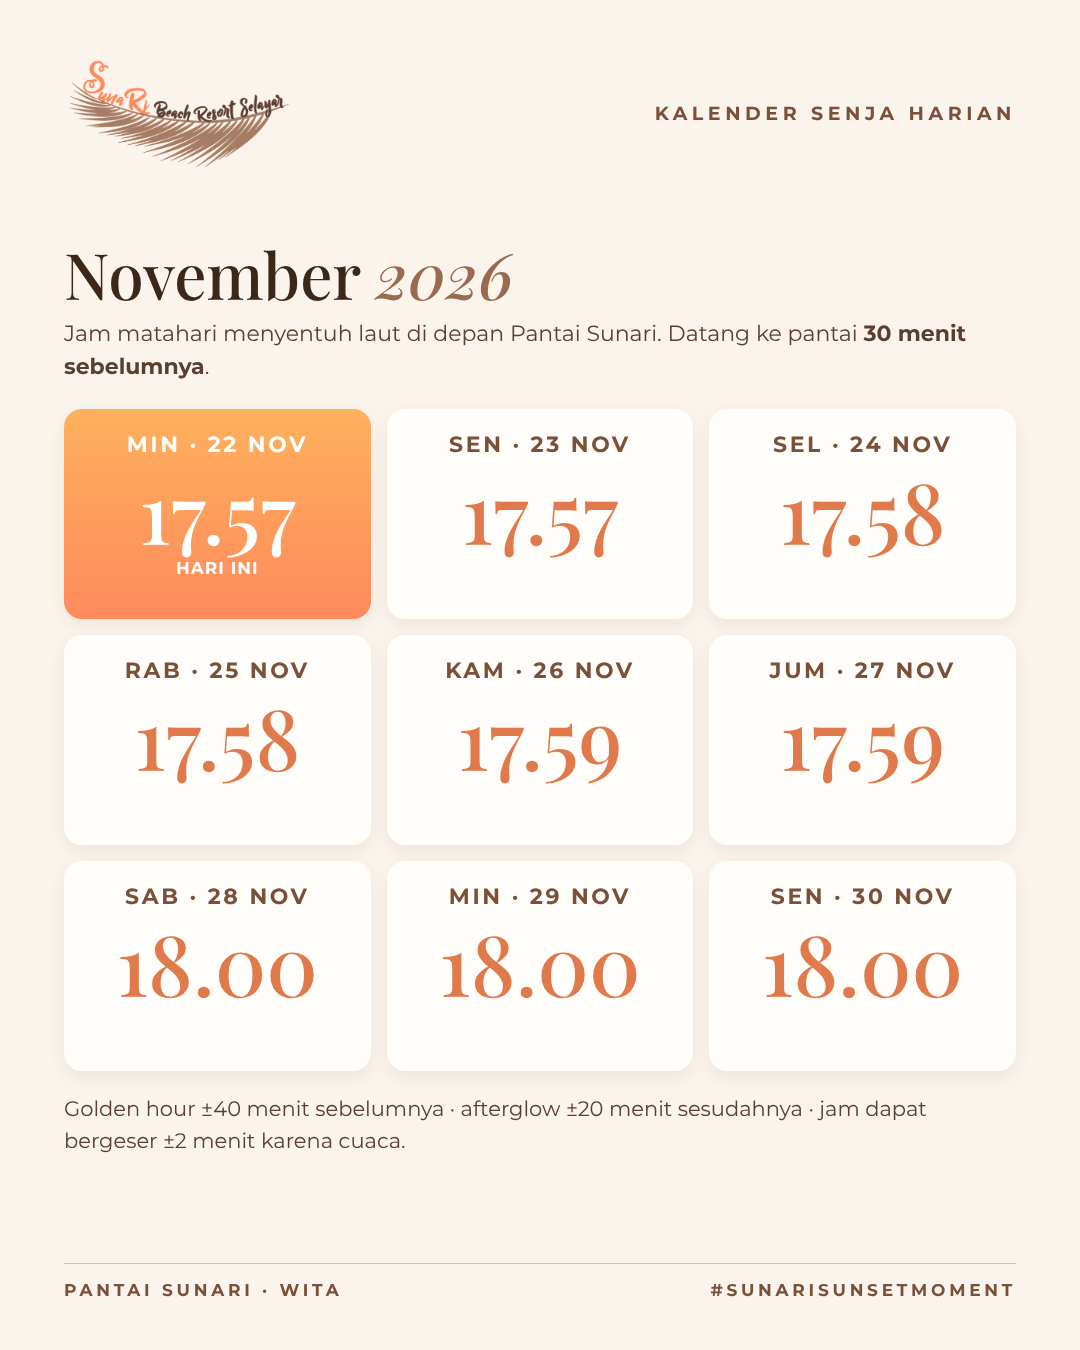
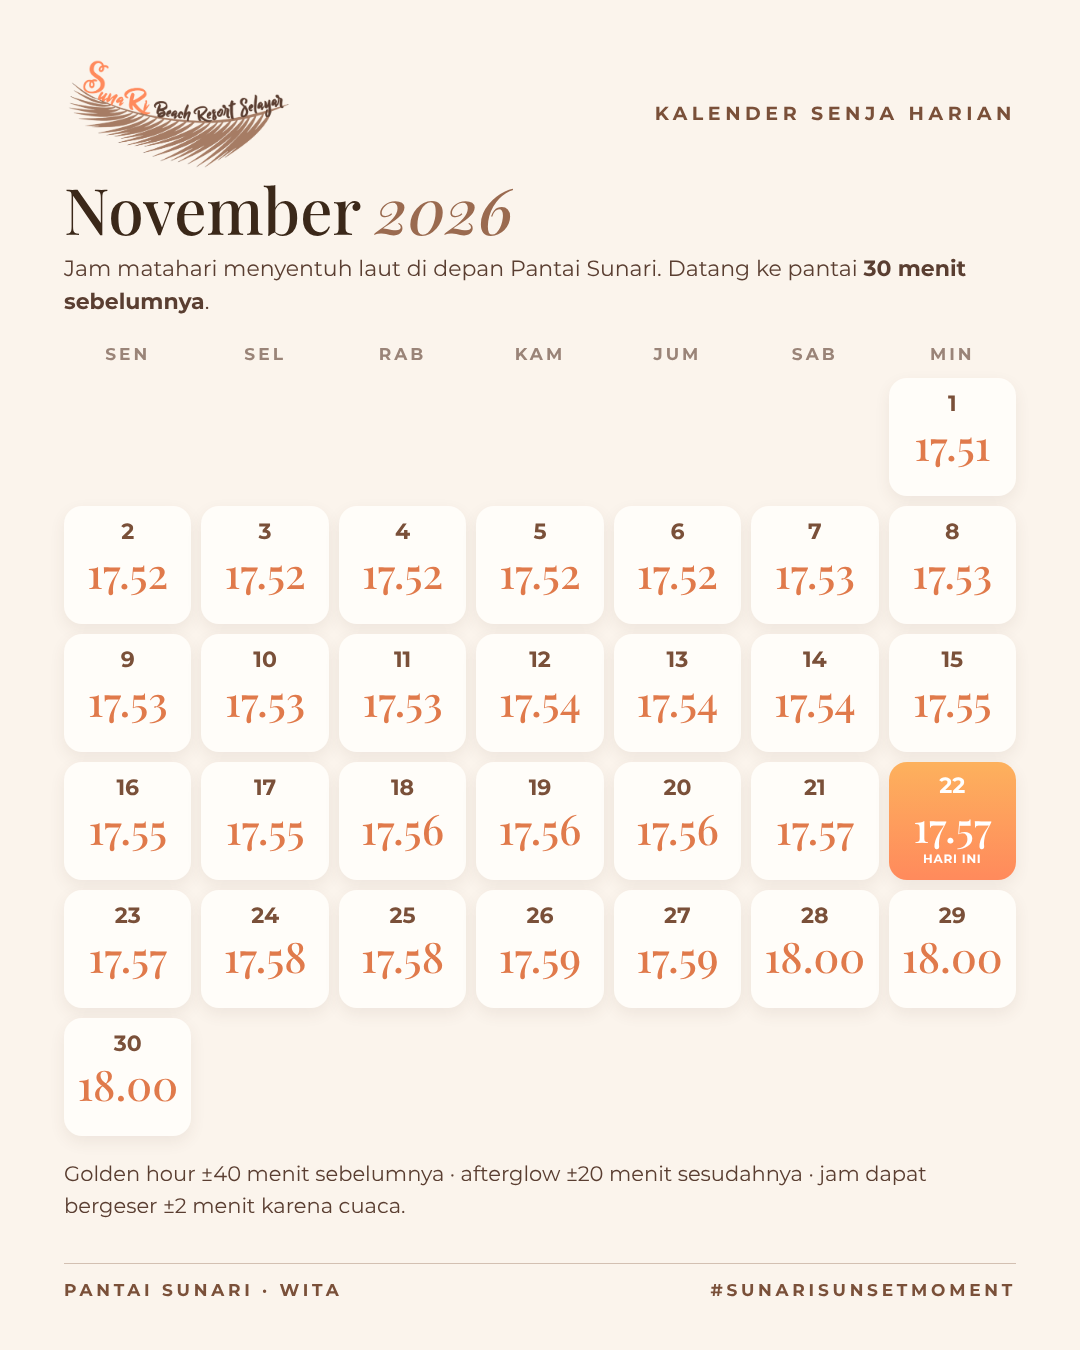
Daily sunset calendar: full month of November
Claude-Session: https://claude.ai/code/session_01AizaiBQtsTmWERPRfEgVV4

diff --git a/social/kalender_harian.html b/social/kalender_harian.html
@@ -24,7 +24,7 @@ body{background:#bbb;font-family:Montserrat,sans-serif;color:#3B2819}
   <div style="position:absolute;left:64px;right:64px;top:166px;bottom:120px;display:flex;flex-direction:column;justify-content:center">
     <div class="pf" style="font-size:64px;line-height:1.05">November <span class="it">2026</span></div>
     <div class="note" style="margin-top:10px">Jam matahari menyentuh laut di depan Pantai Sunari. Datang ke pantai <b>30 menit sebelumnya</b>.</div>
-    <div style="margin-top:26px"><div style="display:grid;grid-template-columns:repeat(3,1fr);gap:16px"><div class="c sp" style="height:210px;padding-top:22px"><div class="d" style="font-size:22px;letter-spacing:.12em;text-transform:uppercase">Min · 22 Nov</div><div class="tm" style="font-size:84px;margin-top:10px">17.57</div><div class="lb" style="font-size:17px;margin-top:6px">Hari ini</div></div><div class="c" style="height:210px;padding-top:22px"><div class="d" style="font-size:22px;letter-spacing:.12em;text-transform:uppercase">Sen · 23 Nov</div><div class="tm" style="font-size:84px;margin-top:10px">17.57</div></div><div class="c" style="height:210px;padding-top:22px"><div class="d" style="font-size:22px;letter-spacing:.12em;text-transform:uppercase">Sel · 24 Nov</div><div class="tm" style="font-size:84px;margin-top:10px">17.58</div></div><div class="c" style="height:210px;padding-top:22px"><div class="d" style="font-size:22px;letter-spacing:.12em;text-transform:uppercase">Rab · 25 Nov</div><div class="tm" style="font-size:84px;margin-top:10px">17.58</div></div><div class="c" style="height:210px;padding-top:22px"><div class="d" style="font-size:22px;letter-spacing:.12em;text-transform:uppercase">Kam · 26 Nov</div><div class="tm" style="font-size:84px;margin-top:10px">17.59</div></div><div class="c" style="height:210px;padding-top:22px"><div class="d" style="font-size:22px;letter-spacing:.12em;text-transform:uppercase">Jum · 27 Nov</div><div class="tm" style="font-size:84px;margin-top:10px">17.59</div></div><div class="c" style="height:210px;padding-top:22px"><div class="d" style="font-size:22px;letter-spacing:.12em;text-transform:uppercase">Sab · 28 Nov</div><div class="tm" style="font-size:84px;margin-top:10px">18.00</div></div><div class="c" style="height:210px;padding-top:22px"><div class="d" style="font-size:22px;letter-spacing:.12em;text-transform:uppercase">Min · 29 Nov</div><div class="tm" style="font-size:84px;margin-top:10px">18.00</div></div><div class="c" style="height:210px;padding-top:22px"><div class="d" style="font-size:22px;letter-spacing:.12em;text-transform:uppercase">Sen · 30 Nov</div><div class="tm" style="font-size:84px;margin-top:10px">18.00</div></div></div></div><div class="note" style="font-size:21px;margin-top:22px">Golden hour ±40 menit sebelumnya · afterglow ±20 menit sesudahnya · jam dapat bergeser ±2 menit karena cuaca.</div></div>
+    <div style="margin-top:26px"><div class="wk"><div class="hd">Sen</div><div class="hd">Sel</div><div class="hd">Rab</div><div class="hd">Kam</div><div class="hd">Jum</div><div class="hd">Sab</div><div class="hd">Min</div><div class="c e"></div><div class="c e"></div><div class="c e"></div><div class="c e"></div><div class="c e"></div><div class="c e"></div><div class="c" style="height:118px;padding-top:12px"><div class="d" style="font-size:22px">1</div><div class="tm" style="font-size:42px;margin-top:6px">17.51</div></div><div class="c" style="height:118px;padding-top:12px"><div class="d" style="font-size:22px">2</div><div class="tm" style="font-size:42px;margin-top:6px">17.52</div></div><div class="c" style="height:118px;padding-top:12px"><div class="d" style="font-size:22px">3</div><div class="tm" style="font-size:42px;margin-top:6px">17.52</div></div><div class="c" style="height:118px;padding-top:12px"><div class="d" style="font-size:22px">4</div><div class="tm" style="font-size:42px;margin-top:6px">17.52</div></div><div class="c" style="height:118px;padding-top:12px"><div class="d" style="font-size:22px">5</div><div class="tm" style="font-size:42px;margin-top:6px">17.52</div></div><div class="c" style="height:118px;padding-top:12px"><div class="d" style="font-size:22px">6</div><div class="tm" style="font-size:42px;margin-top:6px">17.52</div></div><div class="c" style="height:118px;padding-top:12px"><div class="d" style="font-size:22px">7</div><div class="tm" style="font-size:42px;margin-top:6px">17.53</div></div><div class="c" style="height:118px;padding-top:12px"><div class="d" style="font-size:22px">8</div><div class="tm" style="font-size:42px;margin-top:6px">17.53</div></div><div class="c" style="height:118px;padding-top:12px"><div class="d" style="font-size:22px">9</div><div class="tm" style="font-size:42px;margin-top:6px">17.53</div></div><div class="c" style="height:118px;padding-top:12px"><div class="d" style="font-size:22px">10</div><div class="tm" style="font-size:42px;margin-top:6px">17.53</div></div><div class="c" style="height:118px;padding-top:12px"><div class="d" style="font-size:22px">11</div><div class="tm" style="font-size:42px;margin-top:6px">17.53</div></div><div class="c" style="height:118px;padding-top:12px"><div class="d" style="font-size:22px">12</div><div class="tm" style="font-size:42px;margin-top:6px">17.54</div></div><div class="c" style="height:118px;padding-top:12px"><div class="d" style="font-size:22px">13</div><div class="tm" style="font-size:42px;margin-top:6px">17.54</div></div><div class="c" style="height:118px;padding-top:12px"><div class="d" style="font-size:22px">14</div><div class="tm" style="font-size:42px;margin-top:6px">17.54</div></div><div class="c" style="height:118px;padding-top:12px"><div class="d" style="font-size:22px">15</div><div class="tm" style="font-size:42px;margin-top:6px">17.55</div></div><div class="c" style="height:118px;padding-top:12px"><div class="d" style="font-size:22px">16</div><div class="tm" style="font-size:42px;margin-top:6px">17.55</div></div><div class="c" style="height:118px;padding-top:12px"><div class="d" style="font-size:22px">17</div><div class="tm" style="font-size:42px;margin-top:6px">17.55</div></div><div class="c" style="height:118px;padding-top:12px"><div class="d" style="font-size:22px">18</div><div class="tm" style="font-size:42px;margin-top:6px">17.56</div></div><div class="c" style="height:118px;padding-top:12px"><div class="d" style="font-size:22px">19</div><div class="tm" style="font-size:42px;margin-top:6px">17.56</div></div><div class="c" style="height:118px;padding-top:12px"><div class="d" style="font-size:22px">20</div><div class="tm" style="font-size:42px;margin-top:6px">17.56</div></div><div class="c" style="height:118px;padding-top:12px"><div class="d" style="font-size:22px">21</div><div class="tm" style="font-size:42px;margin-top:6px">17.57</div></div><div class="c sp" style="height:118px;padding-top:10px"><div class="d" style="font-size:22px">22</div><div class="tm" style="font-size:42px;margin-top:6px">17.57</div><div class="lb" style="font-size:12px;margin-top:4px">Hari ini</div></div><div class="c" style="height:118px;padding-top:12px"><div class="d" style="font-size:22px">23</div><div class="tm" style="font-size:42px;margin-top:6px">17.57</div></div><div class="c" style="height:118px;padding-top:12px"><div class="d" style="font-size:22px">24</div><div class="tm" style="font-size:42px;margin-top:6px">17.58</div></div><div class="c" style="height:118px;padding-top:12px"><div class="d" style="font-size:22px">25</div><div class="tm" style="font-size:42px;margin-top:6px">17.58</div></div><div class="c" style="height:118px;padding-top:12px"><div class="d" style="font-size:22px">26</div><div class="tm" style="font-size:42px;margin-top:6px">17.59</div></div><div class="c" style="height:118px;padding-top:12px"><div class="d" style="font-size:22px">27</div><div class="tm" style="font-size:42px;margin-top:6px">17.59</div></div><div class="c" style="height:118px;padding-top:12px"><div class="d" style="font-size:22px">28</div><div class="tm" style="font-size:42px;margin-top:6px">18.00</div></div><div class="c" style="height:118px;padding-top:12px"><div class="d" style="font-size:22px">29</div><div class="tm" style="font-size:42px;margin-top:6px">18.00</div></div><div class="c" style="height:118px;padding-top:12px"><div class="d" style="font-size:22px">30</div><div class="tm" style="font-size:42px;margin-top:6px">18.00</div></div></div></div><div class="note" style="font-size:21px;margin-top:22px">Golden hour ±40 menit sebelumnya · afterglow ±20 menit sesudahnya · jam dapat bergeser ±2 menit karena cuaca.</div></div>
   <div class="ft" style="bottom:50px"><span>Pantai Sunari · WITA</span><span>#sunarisunsetmoment</span></div></div><div class="t f" id="kalender-harian-des">
   <div class="top" style="top:56px"><img src="../assets/logo-sunari-color.png" alt=""><span class="caps" style="font-size:19px">Kalender senja harian</span></div>
   <div style="position:absolute;left:64px;right:64px;top:166px;bottom:120px;display:flex;flex-direction:column;justify-content:center">
@@ -36,7 +36,7 @@ body{background:#bbb;font-family:Montserrat,sans-serif;color:#3B2819}
   <div style="position:absolute;left:64px;right:64px;top:250px;bottom:310px;display:flex;flex-direction:column;justify-content:center">
     <div class="pf" style="font-size:74px;line-height:1.05">Senja <span class="it">November</span></div>
     <div class="note" style="margin-top:10px">Jam matahari menyentuh laut di depan Pantai Sunari. Datang ke pantai <b>30 menit sebelumnya</b>.</div>
-    <div style="margin-top:26px"><div style="display:grid;grid-template-columns:repeat(3,1fr);gap:16px"><div class="c sp" style="height:260px;padding-top:22px"><div class="d" style="font-size:24px;letter-spacing:.12em;text-transform:uppercase">Min · 22 Nov</div><div class="tm" style="font-size:96px;margin-top:10px">17.57</div><div class="lb" style="font-size:19px;margin-top:6px">Hari ini</div></div><div class="c" style="height:260px;padding-top:22px"><div class="d" style="font-size:24px;letter-spacing:.12em;text-transform:uppercase">Sen · 23 Nov</div><div class="tm" style="font-size:96px;margin-top:10px">17.57</div></div><div class="c" style="height:260px;padding-top:22px"><div class="d" style="font-size:24px;letter-spacing:.12em;text-transform:uppercase">Sel · 24 Nov</div><div class="tm" style="font-size:96px;margin-top:10px">17.58</div></div><div class="c" style="height:260px;padding-top:22px"><div class="d" style="font-size:24px;letter-spacing:.12em;text-transform:uppercase">Rab · 25 Nov</div><div class="tm" style="font-size:96px;margin-top:10px">17.58</div></div><div class="c" style="height:260px;padding-top:22px"><div class="d" style="font-size:24px;letter-spacing:.12em;text-transform:uppercase">Kam · 26 Nov</div><div class="tm" style="font-size:96px;margin-top:10px">17.59</div></div><div class="c" style="height:260px;padding-top:22px"><div class="d" style="font-size:24px;letter-spacing:.12em;text-transform:uppercase">Jum · 27 Nov</div><div class="tm" style="font-size:96px;margin-top:10px">17.59</div></div><div class="c" style="height:260px;padding-top:22px"><div class="d" style="font-size:24px;letter-spacing:.12em;text-transform:uppercase">Sab · 28 Nov</div><div class="tm" style="font-size:96px;margin-top:10px">18.00</div></div><div class="c" style="height:260px;padding-top:22px"><div class="d" style="font-size:24px;letter-spacing:.12em;text-transform:uppercase">Min · 29 Nov</div><div class="tm" style="font-size:96px;margin-top:10px">18.00</div></div><div class="c" style="height:260px;padding-top:22px"><div class="d" style="font-size:24px;letter-spacing:.12em;text-transform:uppercase">Sen · 30 Nov</div><div class="tm" style="font-size:96px;margin-top:10px">18.00</div></div></div></div><div class="note" style="font-size:25px;margin-top:22px">Golden hour ±40 menit sebelumnya · afterglow ±20 menit sesudahnya · jam dapat bergeser ±2 menit karena cuaca.</div></div>
+    <div style="margin-top:26px"><div class="wk"><div class="hd">Sen</div><div class="hd">Sel</div><div class="hd">Rab</div><div class="hd">Kam</div><div class="hd">Jum</div><div class="hd">Sab</div><div class="hd">Min</div><div class="c e"></div><div class="c e"></div><div class="c e"></div><div class="c e"></div><div class="c e"></div><div class="c e"></div><div class="c" style="height:168px;padding-top:12px"><div class="d" style="font-size:26px">1</div><div class="tm" style="font-size:50px;margin-top:6px">17.51</div></div><div class="c" style="height:168px;padding-top:12px"><div class="d" style="font-size:26px">2</div><div class="tm" style="font-size:50px;margin-top:6px">17.52</div></div><div class="c" style="height:168px;padding-top:12px"><div class="d" style="font-size:26px">3</div><div class="tm" style="font-size:50px;margin-top:6px">17.52</div></div><div class="c" style="height:168px;padding-top:12px"><div class="d" style="font-size:26px">4</div><div class="tm" style="font-size:50px;margin-top:6px">17.52</div></div><div class="c" style="height:168px;padding-top:12px"><div class="d" style="font-size:26px">5</div><div class="tm" style="font-size:50px;margin-top:6px">17.52</div></div><div class="c" style="height:168px;padding-top:12px"><div class="d" style="font-size:26px">6</div><div class="tm" style="font-size:50px;margin-top:6px">17.52</div></div><div class="c" style="height:168px;padding-top:12px"><div class="d" style="font-size:26px">7</div><div class="tm" style="font-size:50px;margin-top:6px">17.53</div></div><div class="c" style="height:168px;padding-top:12px"><div class="d" style="font-size:26px">8</div><div class="tm" style="font-size:50px;margin-top:6px">17.53</div></div><div class="c" style="height:168px;padding-top:12px"><div class="d" style="font-size:26px">9</div><div class="tm" style="font-size:50px;margin-top:6px">17.53</div></div><div class="c" style="height:168px;padding-top:12px"><div class="d" style="font-size:26px">10</div><div class="tm" style="font-size:50px;margin-top:6px">17.53</div></div><div class="c" style="height:168px;padding-top:12px"><div class="d" style="font-size:26px">11</div><div class="tm" style="font-size:50px;margin-top:6px">17.53</div></div><div class="c" style="height:168px;padding-top:12px"><div class="d" style="font-size:26px">12</div><div class="tm" style="font-size:50px;margin-top:6px">17.54</div></div><div class="c" style="height:168px;padding-top:12px"><div class="d" style="font-size:26px">13</div><div class="tm" style="font-size:50px;margin-top:6px">17.54</div></div><div class="c" style="height:168px;padding-top:12px"><div class="d" style="font-size:26px">14</div><div class="tm" style="font-size:50px;margin-top:6px">17.54</div></div><div class="c" style="height:168px;padding-top:12px"><div class="d" style="font-size:26px">15</div><div class="tm" style="font-size:50px;margin-top:6px">17.55</div></div><div class="c" style="height:168px;padding-top:12px"><div class="d" style="font-size:26px">16</div><div class="tm" style="font-size:50px;margin-top:6px">17.55</div></div><div class="c" style="height:168px;padding-top:12px"><div class="d" style="font-size:26px">17</div><div class="tm" style="font-size:50px;margin-top:6px">17.55</div></div><div class="c" style="height:168px;padding-top:12px"><div class="d" style="font-size:26px">18</div><div class="tm" style="font-size:50px;margin-top:6px">17.56</div></div><div class="c" style="height:168px;padding-top:12px"><div class="d" style="font-size:26px">19</div><div class="tm" style="font-size:50px;margin-top:6px">17.56</div></div><div class="c" style="height:168px;padding-top:12px"><div class="d" style="font-size:26px">20</div><div class="tm" style="font-size:50px;margin-top:6px">17.56</div></div><div class="c" style="height:168px;padding-top:12px"><div class="d" style="font-size:26px">21</div><div class="tm" style="font-size:50px;margin-top:6px">17.57</div></div><div class="c sp" style="height:168px;padding-top:10px"><div class="d" style="font-size:26px">22</div><div class="tm" style="font-size:50px;margin-top:6px">17.57</div><div class="lb" style="font-size:14px;margin-top:4px">Hari ini</div></div><div class="c" style="height:168px;padding-top:12px"><div class="d" style="font-size:26px">23</div><div class="tm" style="font-size:50px;margin-top:6px">17.57</div></div><div class="c" style="height:168px;padding-top:12px"><div class="d" style="font-size:26px">24</div><div class="tm" style="font-size:50px;margin-top:6px">17.58</div></div><div class="c" style="height:168px;padding-top:12px"><div class="d" style="font-size:26px">25</div><div class="tm" style="font-size:50px;margin-top:6px">17.58</div></div><div class="c" style="height:168px;padding-top:12px"><div class="d" style="font-size:26px">26</div><div class="tm" style="font-size:50px;margin-top:6px">17.59</div></div><div class="c" style="height:168px;padding-top:12px"><div class="d" style="font-size:26px">27</div><div class="tm" style="font-size:50px;margin-top:6px">17.59</div></div><div class="c" style="height:168px;padding-top:12px"><div class="d" style="font-size:26px">28</div><div class="tm" style="font-size:50px;margin-top:6px">18.00</div></div><div class="c" style="height:168px;padding-top:12px"><div class="d" style="font-size:26px">29</div><div class="tm" style="font-size:50px;margin-top:6px">18.00</div></div><div class="c" style="height:168px;padding-top:12px"><div class="d" style="font-size:26px">30</div><div class="tm" style="font-size:50px;margin-top:6px">18.00</div></div></div></div><div class="note" style="font-size:25px;margin-top:22px">Golden hour ±40 menit sebelumnya · afterglow ±20 menit sesudahnya · jam dapat bergeser ±2 menit karena cuaca.</div></div>
   <div class="ft" style="bottom:240px"><span>Pantai Sunari · WITA</span><span>#sunarisunsetmoment</span></div></div><div class="t s" id="story-kalender-harian-des">
   <div class="top" style="top:140px"><img src="../assets/logo-sunari-color.png" alt=""><span class="caps" style="font-size:19px">Kalender senja harian</span></div>
   <div style="position:absolute;left:64px;right:64px;top:250px;bottom:310px;display:flex;flex-direction:column;justify-content:center">

diff --git a/social/build_kalender_harian.py b/social/build_kalender_harian.py
@@ -74,13 +74,13 @@ def page(pid, fmt, title, sub, days, size, top, foot_bottom, extra="", g=None):
   <div class="ft" style="bottom:{foot_bottom}px"><span>Pantai Sunari · WITA</span><span>{TAG}</span></div></div>''')
 
 T = []
-nov = [d for d in DAYS if d.month == 11]; des = [d for d in DAYS if d.month == 12]
+nov = [dt.date(2026, 11, i) for i in range(1, 31)]; des = [d for d in DAYS if d.month == 12]
 SUBN = "Jam matahari menyentuh laut di depan Pantai Sunari. Datang ke pantai <b>30 menit sebelumnya</b>."
 SUBD = "Senja makin sore menjelang akhir tahun. Tutup 2026 dengan senja terakhir di Pantai Sunari."
 legend = lambda fs: f'''<div class="note" style="font-size:{fs}px;margin-top:22px">Golden hour ±40 menit sebelumnya · afterglow ±20 menit sesudahnya · jam dapat bergeser ±2 menit karena cuaca.</div>'''
-page("kalender-harian-nov", "f", 'November <span class="it">2026</span>', SUBN, nov, (210, 22, 84, 17), 56, 50, legend(21), g=grid3)
+page("kalender-harian-nov", "f", 'November <span class="it">2026</span>', SUBN, nov, (118, 22, 42, 12), 56, 50, legend(21))
 page("kalender-harian-des", "f", 'Desember <span class="it">2026</span>', SUBD, des, (140, 24, 46, 13), 56, 50, legend(21))
-page("story-kalender-harian-nov", "s", 'Senja <span class="it">November</span>', SUBN, nov, (260, 24, 96, 19), 140, 240, legend(25), g=grid3)
+page("story-kalender-harian-nov", "s", 'Senja <span class="it">November</span>', SUBN, nov, (168, 26, 50, 14), 140, 240, legend(25))
 page("story-kalender-harian-des", "s", 'Senja <span class="it">Desember</span>', SUBD, des, (200, 28, 50, 15), 140, 240, legend(25))
 (H / "kalender_harian.html").write_text(f'<!doctype html><html lang="id"><head><meta charset="utf-8">{FONTS}<style>{CSS}</style></head><body>{"".join(T)}</body></html>')
 print(len(T), "desain")

diff --git a/social/SUNSET_GUIDE.md b/social/SUNSET_GUIDE.md
@@ -113,7 +113,7 @@ Reservasi: WhatsApp 0821-8903-3044
 #SunaRiSelayar #SenjaHariIni #KalenderSenja #PantaiSunari #SunsetSelayar #Selayar
 ```
 
-## Kalender Senja Harian 22 Nov – 31 Des 2026 (`social/kalender-senja-harian/`)
+## Kalender Senja Harian November – Desember 2026 (1 Nov – 31 Des) (`social/kalender-senja-harian/`)
 - Feed (1080×1350): `kalender-harian-nov`, `kalender-harian-des`. Bisa diposting sebagai carousel 2 slide.
 - Story (1080×1920): `story-kalender-harian-nov`, `story-kalender-harian-des`.
 - Jam dihitung untuk tiap hari, dan tanggal penting disorot: 22 Nov (hari ini), 25 Des (Natal), 31 Des (senja terakhir 2026).
@@ -121,7 +121,7 @@ Reservasi: WhatsApp 0821-8903-3044
 
 **Caption**
 ```
-Kalender senja harian Pantai Sunari, sampai akhir 2026 🌅
+Kalender senja harian Pantai Sunari, November & Desember 2026 🌅
 Senja makin sore menjelang akhir tahun: 17.57 hari ini, 18.15 di senja terakhir 2026.
 Simpan & tandai tanggalmu. Datang ke pantai 30 menit sebelumnya.
 
